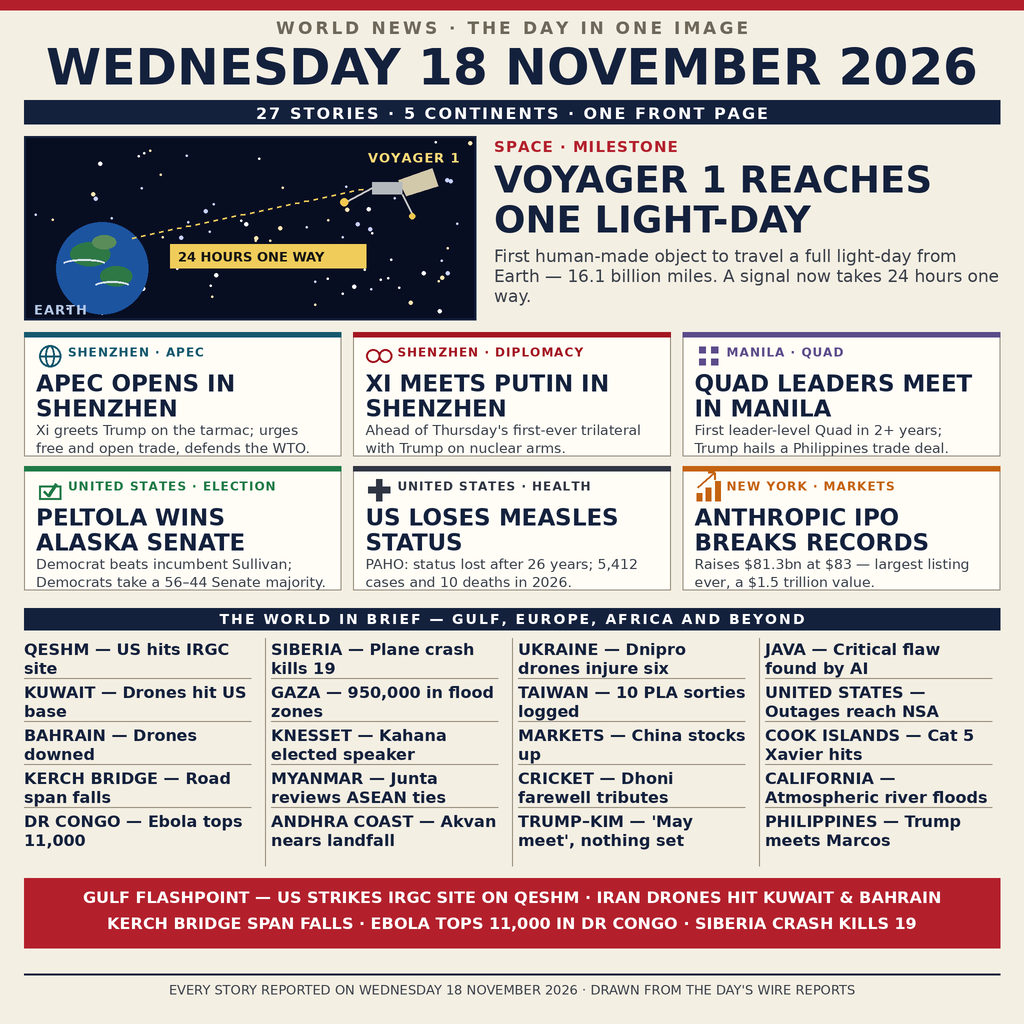
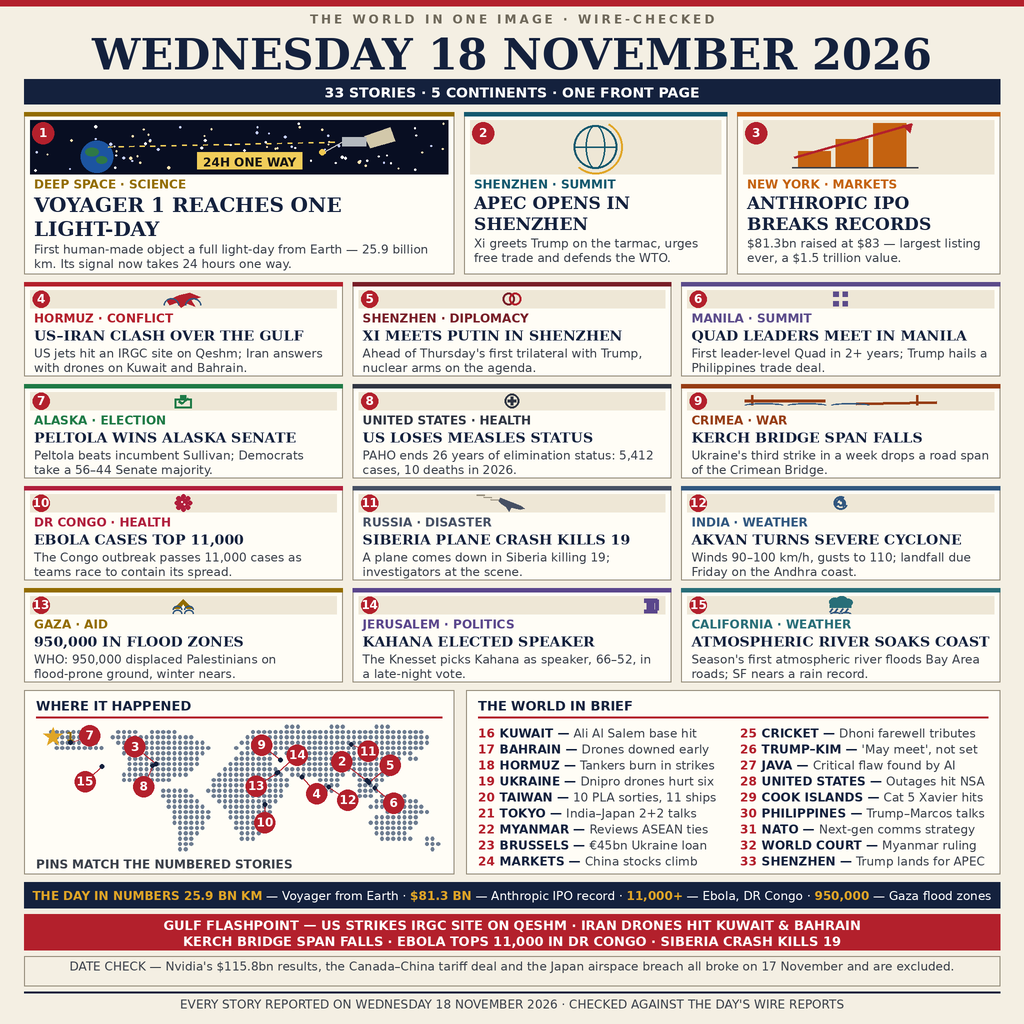
Rebuild front page to winners' formula: 33 stories, 15 illustrated, pinned world map

diff --git a/README.md b/README.md
@@ -7,7 +7,7 @@ news-image-20261118](https://make.fun/badge/news-image-20261118.svg)](https://ma
 
 [![reward](https://make.fun/badge/news-image-20261118/vnazt/news-image-20261118/reward.svg)](https://make.fun/bounty/news-image-20261118?utm_source=github&utm_medium=readme&utm_campaign=news-image-20261118)
 
-Wednesday 18 November 2026: 27 stories, 5 continents — one front page. The hero story is Voyager 1 reaching one light-day from Earth, 16.1 billion miles out, its signal now taking 24 hours to come home — drawn as the day's defining picture. Around it, the front page carries the rest of the day: APEC opening in Shenzhen, where Xi Jinping urges free and open trade and defends the WTO; Xi meeting Putin in Shenzhen ahead of the first-ever trilateral with Trump; Quad leaders meeting in Manila, their first leader-level gathering in more than two years; Mary Peltola winning the Alaska Senate race for the Democrats, 56–44; the United States losing its measles-free status, with PAHO counting 5,412 cases and 10 deaths in 2026; and Cyclone Akvan turning severe in the Bay of Bengal — with a ticker along the bottom holding four more stories that would not fit the page: the Gulf flashpoint, a Kerch Bridge span falling, Ebola topping 11,000 cases in DR Congo, and a Siberia crash killing 19.
+Wednesday 18 November 2026: 33 stories, 5 continents — one front page. Fifteen illustrated, numbered stories lead the page, and a dotted world map below them pins each one where it happened. The hero story is Voyager 1 reaching one light-day from Earth, 25.9 billion kilometres out, its signal now taking 24 hours one way. Around it: APEC opening in Shenzhen, where Xi Jinping greets Trump on the tarmac and urges free and open trade; Anthropic's record-breaking IPO, raising $81.3 billion at $83 a share; US jets striking an IRGC site on Qeshm as Iran answers with drones on Kuwait and Bahrain; Xi meeting Putin in Shenzhen; Quad leaders meeting in Manila; Mary Peltola winning the Alaska Senate race; the United States losing its measles-free status; a Kerch Bridge span falling; Ebola topping 11,000 cases in DR Congo; a Siberia plane crash killing 19; Cyclone Akvan turning severe; 950,000 people in Gaza flood zones; Kahana elected Knesset speaker 66–52; and an atmospheric river soaking California. Eighteen one-line briefs, a day-in-numbers strip and a ticker complete the page, and a date-check note records the big stories excluded because they broke on 17 November.
 
 The deliverable is `entry.png` (1024x1024). `main.py` is the entry program: it validates the image against the bounty limits (PNG signature, every chunk with its checksum through to IEND, IHDR width and height at most 1024, at most 1 MiB) and copies it unchanged into the output directory, confirming the byte count as it goes. Standard library only, no network.
 
